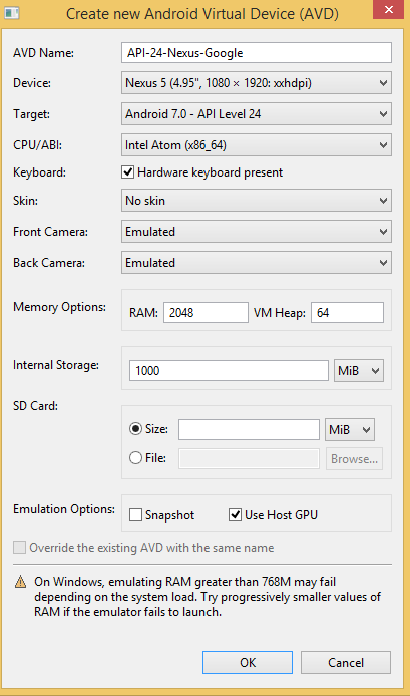
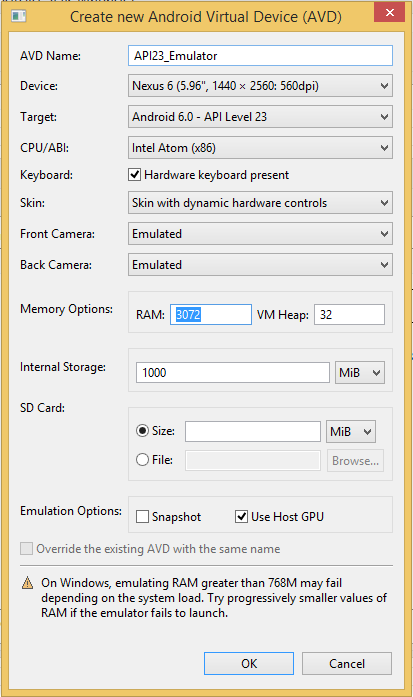
update article informatio for using API23 as recommended default option

diff --git a/tooling/android-virtual-devices.md b/tooling/android-virtual-devices.md
@@ -14,21 +14,18 @@ to test mobile applications on various virtual devices. By default, the Android 
 
 1. Open **Android SDK Manager** 
 
-    It can be started from command prompt / shell with command `android`
+     - From your terminal run  `start %ANDROID_HOME%/"SDK Manager.exe"`
 
 2. Make sure that the system images for the AVDs are installed. 
 
-    The screenshow below shows the Android API 24 system images installed on the computer. If additional system images are needed (e.g. for different API level) select them and press **Install Packages** button at the bottom right corner.
+    The screenshow below shows the Android API 23 system images installed on the computer. If additional system images are needed (e.g. for different API level) select them and press **Install Packages** button at the bottom right corner.
 
-    ![Installed AVDs for API 24 in Andrid SDK](../img/create-avd/avd-001.png "Installed AVDs for API 24 in Andrid SDK")
+    ![Installed AVDs for API 23 in Andrid SDK](../img/create-avd/avd-001.png "Installed AVDs for API 23 in Andrid SDK")
 
-    You can accelerate the virtual device using Virtualization Technology. For hardware with Intel CPUs this can be achieved with HAXM installer.
+    You can accelerate the virtual device using Virtualization Technology. For hardware with Intel CPUs, this can be achieved with HAXM installer. Acquire the installer from the [official download site of HAXM](https://software.intel.com/en-us/android/articles/intel-hardware-accelerated-execution-manager).
+    After successful download, execute the installer and follow the installation instruction.
 
-    ![Enabling HAXM](../img/create-avd/avd-002.png "Enabling HAXM")
-
-    Once the SDK Manager downloads the HAXM installer, navigate to the source folder (usually in `<sdk_path>\extras\intel\Hardware_Accelerated_Execution_Manager\`) and manually install **Intel HAXM** (intelhaxm-android.exe). For additional information on HAXM follow this [link](https://software.intel.com/en-us/android/articles/speeding-up-the-android-emulator-on-intel-architecture)
-
-    > **Note:** To Use HAXM make sure that the system image is of type **Intel x86 Atom** or **Intel x86_x64 Atom** 
+    > **Note:** To Use HAXM make sure that the system image is of type **Intel x86 Atom** or **Intel x86_x64 Atom**. ARM emulators are much slower, but can be useful when your hardware does not support HAXM or when you have enabled Hyper-V technology.
 
 3. Go to **Tools > Manage AVDs**
 
@@ -42,8 +39,8 @@ to test mobile applications on various virtual devices. By default, the Android 
 
     - **AVD Name** : The emulator name in "Android Virtual Devices"
     - **Device** : Choose the hardware device to emulate (e.g. Nexus 5)
-    - **Target** : Choose the API Level (e.g. Android Nougat API Level 24)
-    - **CPU/ABI** : Choose the CPU architecture (e.g. Intel Atom x86_x64) for use with HAXM use Intel Atom images!
+    - **Target** : Choose the API Level (e.g. Android Nougat API Level 23)
+    - **CPU/ABI** : Choose the CPU architecture (e.g. Intel Atom x86) for use with HAXM use Intel Atom images!
     - **Keyboard** : Check "hardware keyboard present"
     - **Skin** : Choose the skin type for the emulator
     - **Front & Back Camera** : Enable/disable support for emulated or web cameras
@@ -95,8 +92,7 @@ e.g. run on device with Device Identifier
 tns run android --device 00bd261c1580a7d3
 ```
 
-The example above will start the application on device with id 2 (sdk_phone_x86_64). The same rule applies for `livesync` command
-
+The example above will start the application on device with id 2 (sdk_phone_x86_64).
 
 To launch a NativeScript application on all connected devices simultaneously, simply ignore the `--device <id>` flag.
 
